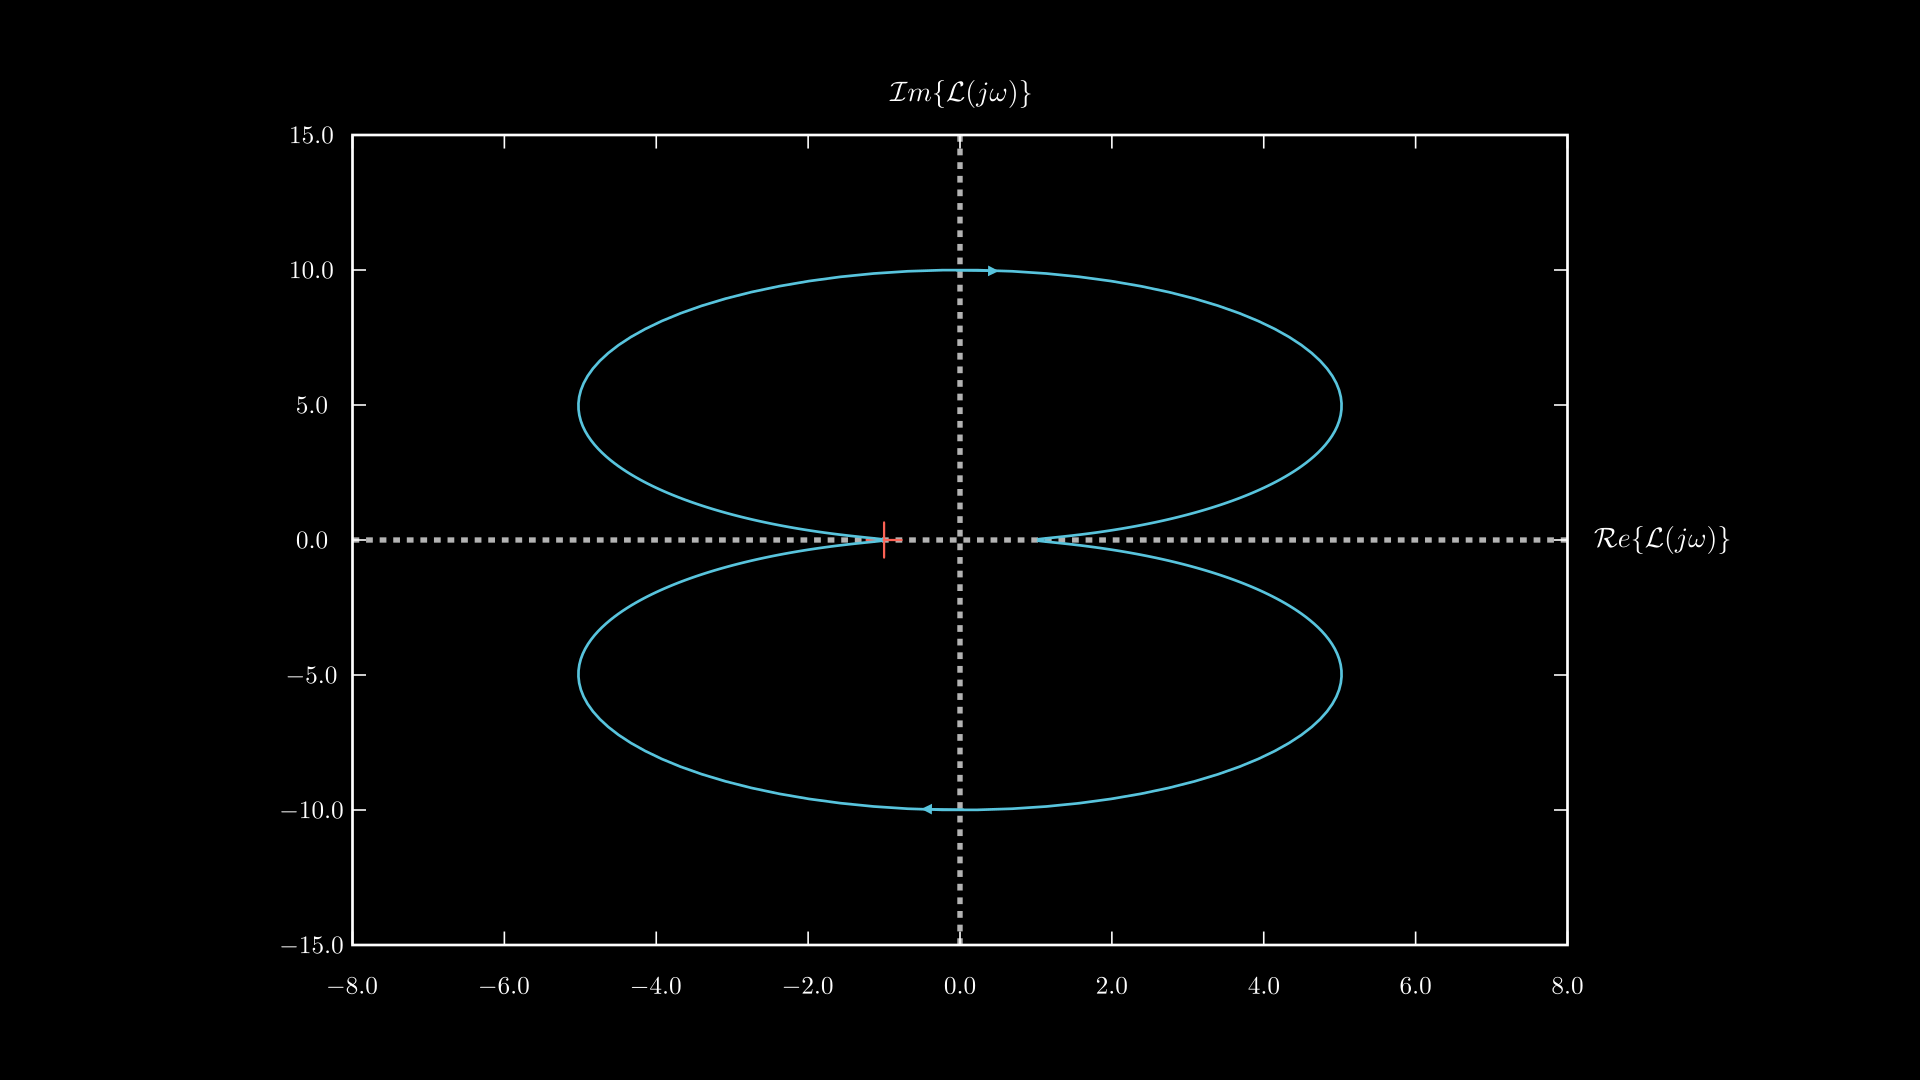
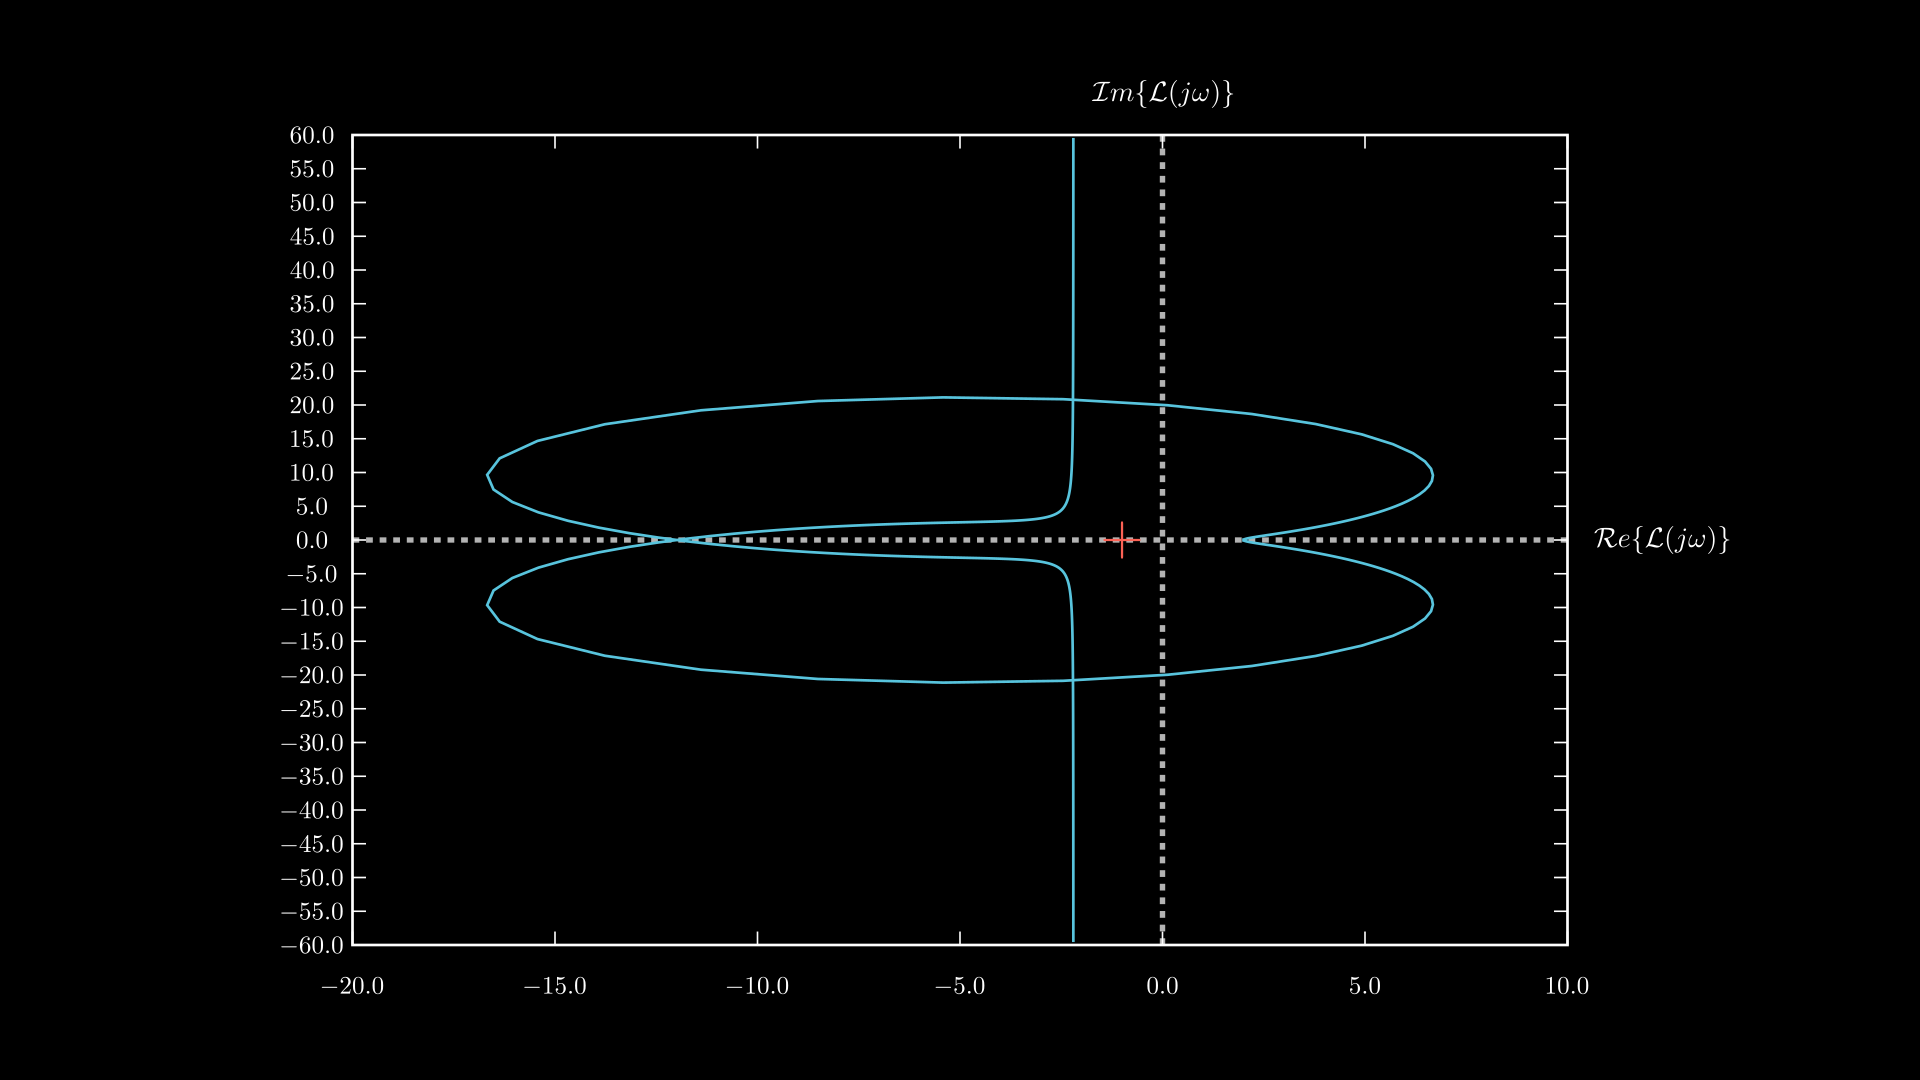
Auto range for improper systems

diff --git a/controltheorylib/control.py b/controltheorylib/control.py
@@ -2493,8 +2493,8 @@ class Nyquist(VGroup):
             
             if finite_features.size > 0:
                 with np.errstate(divide='ignore'):
-                    min_freq = 10**(np.floor(np.log10(np.min(finite_features))) - 1)
-                    max_freq = 10**(np.ceil(np.log10(np.max(finite_features))) + 1)
+                    min_freq = 10**(np.floor(np.log10(np.min(finite_features))) - 2)
+                    max_freq = 10**(np.ceil(np.log10(np.max(finite_features))) + 2)
             else:
                 min_freq, max_freq = 0.1, 100
 
@@ -2503,6 +2503,9 @@ class Nyquist(VGroup):
                 min_freq = min(0.001, min_freq)
             if any(np.isclose(zeros, 0)):
                 max_freq = max(1000, max_freq)
+
+            if not self._is_proper():
+                max_freq = min(max_freq, 1e6)
 
             # Calculate Nyquist response
             w = np.logspace(
@@ -2528,8 +2531,8 @@ class Nyquist(VGroup):
             re_min, re_max = np.min(re), np.max(re)
             im_min, im_max = np.min(im), np.max(im)
                     
-                    # Dynamic padding (reduce for closed plots, increase for open)
-            padding = 0.1 if self._is_proper() else 0.3
+
+            padding = 0.1 if self._is_proper() else 0.05
                     
             x_min = re_min 
             x_max = re_max 
@@ -2550,15 +2553,64 @@ class Nyquist(VGroup):
                 x_max = max(x_max, min_real_range_extent)
                 y_min = min(y_min, -min_im_range_extent)
                 y_max = max(y_max, min_im_range_extent)
+                
+                x_padding = (x_max - x_min) * padding
+                y_padding = (y_max - y_min) * padding
 
-            x_padding = (x_max - x_min) * padding
-            y_padding = (y_max - y_min) * padding
+                x_min -= x_padding
+                x_max += x_padding
+                y_min -= y_padding
+                y_max += y_padding
 
-            x_min -= x_padding
-            x_max += x_padding
-            y_min -= y_padding
-            y_max += y_padding
-
+            if not self._is_proper() or not self._is_strictly_proper():
+                # Detect sustained divergence for improper systems
+                magnitudes = np.abs(response)
+                if len(magnitudes) > 1:
+                    log_magnitudes = np.log(magnitudes + 1e-12)  # Avoid log(0)
+                    log_w = np.log(w + 1e-12)
+                    
+                    with np.errstate(divide='ignore', invalid='ignore'):
+                        growth_rate = np.diff(log_magnitudes)/np.diff(log_w)
+                    growth_rate = np.nan_to_num(growth_rate, nan=0, posinf=1e6, neginf=-1e6)
+                    
+                    # Parameters for sustained divergence detection
+                    threshold = 0.5  # Growth rate threshold
+                    min_consecutive_points = 100  # Number of consecutive points above threshold
+                    
+                    # Find regions of sustained growth
+                    above_threshold = growth_rate > threshold
+                    divergent_regions = np.where(np.convolve(
+                        above_threshold, 
+                        np.ones(min_consecutive_points), 
+                        mode='full'
+                    ) >= min_consecutive_points)[0]
+                    
+                    if len(divergent_regions) > 0:
+                        first_divergent_idx = divergent_regions[0]
+                        
+                        # Only truncate if the divergence is significant
+                        if (log_w[-1] - log_w[first_divergent_idx]) > 1.0:  # At least 1 decade of sustained growth
+                            re = re[:first_divergent_idx+1]
+                            im = im[:first_divergent_idx+1]
+                
+                # Calculate ranges based on response
+                re_min, re_max = np.min(re), np.max(re)
+                im_min, im_max = np.min(im), np.max(im)
+                
+                # Add padding only if not diverging
+                if len(magnitudes) == len(re):  # If we didn't truncate
+                    padding = 0
+                    x_padding = (re_max - re_min) * padding
+                    y_padding = (im_max - im_min) * padding
+                else:
+                    padding = 0  # Smaller padding for truncated responses
+                
+                x_min = re_min 
+                x_max = re_max 
+                max_abs_im = max(abs(im_min), abs(im_max))
+                y_min = -max_abs_im 
+                y_max = max_abs_im
+                
             # Calculate total span
             self.x_span = x_max-x_min
             self.y_span = y_max-y_min
@@ -2589,12 +2641,20 @@ class Nyquist(VGroup):
                 y_max=np.ceil(y_max)
 
             # Round off to 5 
-            if self.x_span > 20:
+            if 20<self.x_span <=50:
                 x_min=np.floor(x_min/5)*5
                 x_max=np.ceil(x_max/5)*5
-            if self.y_span > 20:
+            if 20<self.y_span <=50:
                 y_min=np.floor(y_min/5)*5
                 y_max=np.ceil(y_max/5)*5
+
+            # Round off to 10 
+            if self.x_span > 50:
+                x_min=np.floor(x_min/10)*10
+                x_max=np.ceil(x_max/10)*10
+            if self.y_span > 50:
+                y_min=np.floor(y_min/10)*10
+                y_max=np.ceil(y_max/10)*10
 
             return {
                 'freq_range': (float(min_freq), float(max_freq)),

diff --git a/examples/NyquistPlot/Nyquistplot.py b/examples/NyquistPlot/Nyquistplot.py
@@ -6,7 +6,7 @@ class Nyquistplot(Scene):
     def construct(self):
         
         s = sp.symbols('s')
-        num = (s+1)*(s-1) 
+        num = (s+1)*(s-1)*(s-2) 
         den = s**2+0.2*s+1 
         system = (num, den)
         nyquist = Nyquist(system, show_minus_one_label=False,
